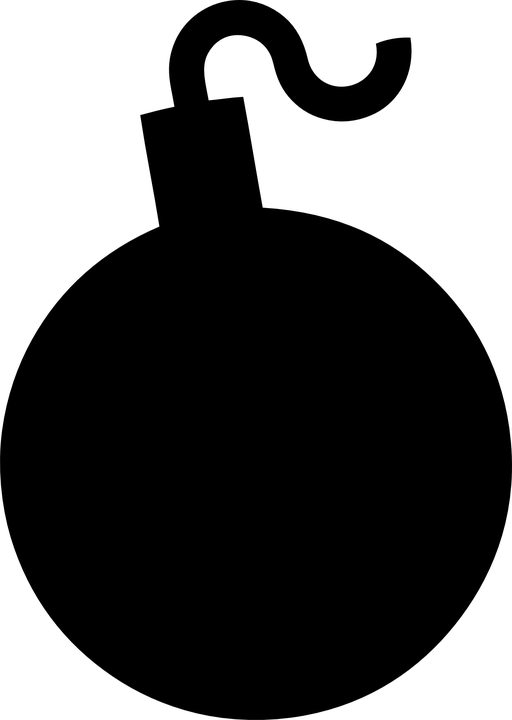
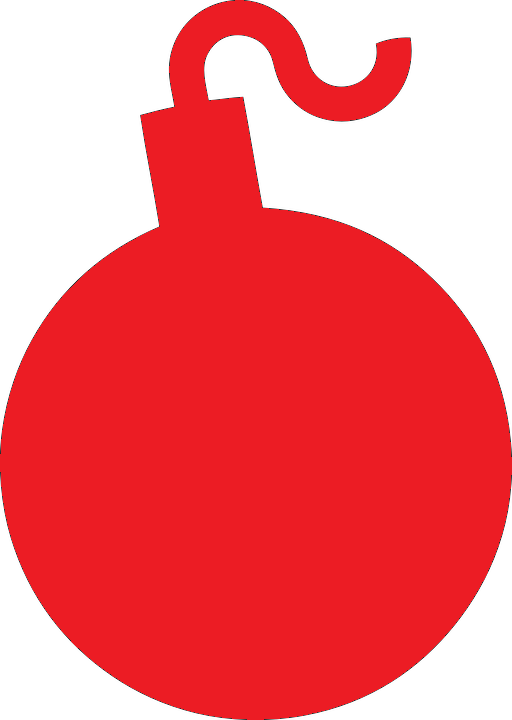
New functionalities
- Correcting discover everyting method
- updating color of numbers ans pictures
- new picture for defused bombs

diff --git a/src/game/library/MineUtils.java b/src/game/library/MineUtils.java
@@ -70,42 +70,47 @@ public class MineUtils {
 
 	public static int giveNeighbourNumber(Coordonnees[] arrayCoor, ArrayList<Coordonnees> arrayCases) {
 		int numberOfNeighboor = 0;
-		arrayCoor = removeNegativeCoordonnees(arrayCoor);
 
 		for (int i = 0; i < arrayCoor.length; i++) {
-			if (isABomb(arrayCoor[i].getOrdonnees(), arrayCoor[i].getAbscisse(), arrayCases)) {
-				numberOfNeighboor++;
+			if (!isOutOfBound(arrayCoor[i])) {
+				if (isABomb(arrayCoor[i].getOrdonnees(), arrayCoor[i].getAbscisse(), arrayCases)) {
+					numberOfNeighboor++;
+				}
 			}
 		}
 
 		return numberOfNeighboor;
 	}
 
-	public static Coordonnees[] removeNegativeCoordonnees(Coordonnees[] coor) {
-		for (int i = 0; i < coor.length; i++) {
-			if (coor[i].getAbscisse() < 0 || coor[i].getOrdonnees() < 0) {
-				coor[i] = new Coordonnees(10, 10);
-			}
-		}
-
-		return coor;
-	}
-
 	public static void revealEmptyCaseAdjacent(Coordonnees position) {
 		Case[][] listeDesCases = getCaseList();
 		Coordonnees[] neighboor = generateCoordonneesVoisines(position.getAbscisse(), position.getOrdonnees());
-		neighboor = removeNegativeCoordonnees(neighboor);
 
 		for (int i = 0; i < neighboor.length; i++) {
-			System.out.println(listeDesCases[neighboor[i].getAbscisse()][neighboor[i].getOrdonnees()]);
+			if (!isOutOfBound(neighboor[i])) {
+				if ((listeDesCases[neighboor[i].getAbscisse()][neighboor[i].getOrdonnees()].getState() == Case.SAFE)
+						&& !(listeDesCases[neighboor[i].getAbscisse()][neighboor[i].getOrdonnees()].isDiscovered())) {
 
-			if ((listeDesCases[neighboor[i].getAbscisse()][neighboor[i].getOrdonnees()].getState() == Case.SAFE)
-					&& !(listeDesCases[neighboor[i].getAbscisse()][neighboor[i].getOrdonnees()].isDiscovered())
-					&& (listeDesCases[neighboor[i].getAbscisse()][neighboor[i].getOrdonnees()]
-							.getNumberOfExplosiveNeighboor() == 0)) {
-				listeDesCases[neighboor[i].getAbscisse()][neighboor[i].getOrdonnees()].changeToNumber(0);
+					// Action of If
+					listeDesCases[neighboor[i].getAbscisse()][neighboor[i].getOrdonnees()]
+							.changeToNumber(listeDesCases[neighboor[i].getAbscisse()][neighboor[i].getOrdonnees()]
+									.getNumberOfExplosiveNeighboor());
+
+					if (listeDesCases[neighboor[i].getAbscisse()][neighboor[i].getOrdonnees()]
+							.getNumberOfExplosiveNeighboor() == 0) {
+						revealEmptyCaseAdjacent(
+								listeDesCases[neighboor[i].getAbscisse()][neighboor[i].getOrdonnees()].getPosition());
+					}
+				}
 			}
 		}
+	}
 
+	public static boolean isOutOfBound(Coordonnees coor) {
+		if (coor.isNegative() || coor.getAbscisse() >= 9 || coor.getOrdonnees() >= 9) {
+			return true;
+		}
+
+		return false;
 	}
 }

diff --git a/src/game/demineur/items/Case.java b/src/game/demineur/items/Case.java
@@ -15,33 +15,44 @@ import game.library.MineUtils;
 public class Case extends CaseItem {
 	public Case(int neighboor, Coordonnees position, ArrayList<Coordonnees> arrayCases) {
 		super(neighboor, position, arrayCases);
-		setStatus(CaseItem.CASE);
-		ImagesSettings resize = new ImagesSettings();
-		resize.displayImage(this, Path.DEFAULT_CUBE_PICTURE, 25, 25);
+		resize();
 
 		this.addMouseListener(new MouseAdapter() {
 			@Override
 			public void mouseClicked(MouseEvent e) {
-				if (SwingUtilities.isRightMouseButton(e) && getStatus() == CaseItem.CASE && !isDiscovered()) {
-					setStatus(CaseItem.FLAG);
-					changeToFlag();
+				if (SwingUtilities.isRightMouseButton(e)) {
+					if (getStatus() == CaseItem.CASE && !isDiscovered()) {
+						setStatus(CaseItem.FLAG);
+						changeToFlag();
+					} else if (getStatus() == CaseItem.FLAG) {
+						resize();
+						setDiscovered(false);
+					}
 
 				} else if (SwingUtilities.isLeftMouseButton(e) && getStatus() == CaseItem.CASE && !isDiscovered()) {
 					System.out.println(getState());
 
 					if (getState() == CaseItem.EXPLOSIVE) {
 						setStatus(CaseItem.BOMB);
-						changeToBomb();
+						changeToBomb(true);
 						booom.DestroyAllBombs(getPosition());
 					} else if (getState() == CaseItem.SAFE) {
 						setStatus(CaseItem.NUMBER);
 						changeToNumber(neighboor);
-						MineUtils.revealEmptyCaseAdjacent(getPosition());
+						if (getNumberOfExplosiveNeighboor() == 0) {
+							MineUtils.revealEmptyCaseAdjacent(getPosition());
+						}
 					}
 				}
 
 			}
 		});
+	}
+
+	public void resize() {
+		setStatus(CaseItem.CASE);
+		ImagesSettings resize = new ImagesSettings();
+		resize.displayImage(this, Path.DEFAULT_CUBE_PICTURE, 25, 25);
 	}
 
 }

diff --git a/src/game/demineur/items/CaseItem.java b/src/game/demineur/items/CaseItem.java
@@ -66,10 +66,20 @@ abstract class CaseItem extends JLabel {
 
 	/**
 	 * Change a case to a bomb
+	 * 
+	 * @param needTo
 	 */
-	public void changeToBomb() {
+	public void changeToBomb(boolean bombIsNotDefused) {
+		String pathPicture;
+
+		if (bombIsNotDefused) {
+			pathPicture = Path.BOMB_PICTURE;
+		} else {
+			pathPicture = Path.DEFUSED_BOMB_PICTURE;
+		}
+
 		ImagesSettings setImage = new ImagesSettings();
-		setImage.displayImage(this, Path.BOMB_PICTURE, 25, 25);
+		setImage.displayImage(this, pathPicture, 25, 25);
 		setDiscovered(true);
 	}
 
@@ -96,6 +106,25 @@ abstract class CaseItem extends JLabel {
 			this.setVerticalAlignment(SwingConstants.CENTER);
 			String number = String.valueOf(numberOfNeighboor);
 			this.setText(number);
+
+			switch (numberOfNeighboor) {
+			case 1:
+				this.setForeground(new Color(0, 156, 253));
+				break;
+
+			case 2:
+				this.setForeground(new Color(0, 192, 0));
+				break;
+
+			case 3:
+				this.setForeground(new Color(254, 162, 1));
+				break;
+
+			default:
+				this.setForeground(new Color(255, 0, 0));
+				break;
+			}
+
 		}
 
 		setDiscovered(true);

diff --git a/src/game/library/Coordonnees.java b/src/game/library/Coordonnees.java
@@ -4,9 +4,22 @@ public class Coordonnees {
 	private int ordonnee;
 	private int abscisse;
 
+	private boolean negative = false;
+
+	/**
+	 * @return if abscisse or ordonnees are negative
+	 */
+	public boolean isNegative() {
+		return negative;
+	}
+
 	public Coordonnees(int i, int j) {
 		setAbscisse(i);
 		setOrdonnees(j);
+
+		if (getAbscisse() < 0 || getOrdonnees() < 0) {
+			negative = true;
+		}
 	}
 
 	/**
@@ -44,6 +57,11 @@ public class Coordonnees {
 		StringBuilder sb = new StringBuilder();
 		sb.append("x = ").append(abscisse);
 		sb.append(", y = ").append(ordonnee);
+
+		if (isNegative()) {
+			sb.append(", negative");
+		}
+
 		return sb.toString();
 	}
 

diff --git a/src/game/demineur/data/endTheGame.java b/src/game/demineur/data/endTheGame.java
@@ -31,10 +31,12 @@ public class endTheGame {
 
 				if (!c.isDiscovered()) {
 					if (c.getState() == Case.EXPLOSIVE) {
-						c.changeToBomb();
+						c.changeToBomb(true);
 					} else if (c.getState() == Case.SAFE) {
 						c.changeToNumber(c.getNumberOfExplosiveNeighboor());
 					}
+				} else if (c.getStatus() == Case.FLAG && c.getState() == Case.EXPLOSIVE) {
+					c.changeToBomb(false);
 				}
 			}
 		}

diff --git a/src/game/demineur/ingame/GameWindow.java b/src/game/demineur/ingame/GameWindow.java
@@ -236,7 +236,7 @@ public class GameWindow {
 
 		for (int i = 0; i < arrayOfcoordinates.size(); i++) {
 			if (arrayOfcoordinates.get(i).equals(coor)) {
-				exist = false;
+				exist = true;
 				break;
 			}
 		}
